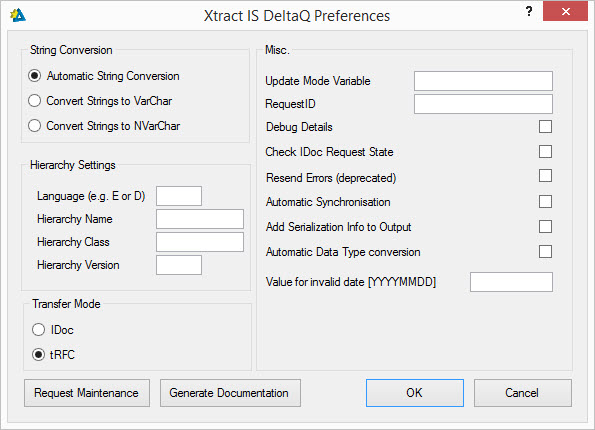
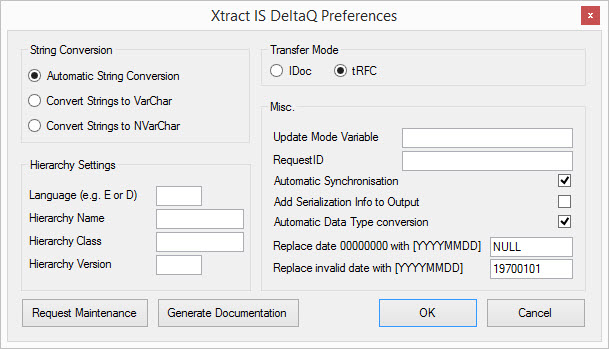
XIS:EN:DeltaQ settings - Changes + settings image

diff --git a/content/_en/xtract-is/deltaq/settings.md b/content/_en/xtract-is/deltaq/settings.md
@@ -46,39 +46,26 @@ Set the value of the **Update Mode** to **V - SSIS Variable** and define the SSI
 This field is optional. 
 If a value (e.g. XtractDatasource) is set, it will be used as suffix in the SAP job name (e.g. BIXtractDatasource), otherwise a combination of process ID and timestamp will be used (e.g. REQU_pppppppp_yyyyMMddHHmmss), with process ID being the ID of the Windows process, the XtractDeltaQServerPool.exe is running under.
 
-**Debug Details**<br>
-Defines that the debug details will be logged.
-
-**Check IDoc Request State**<br>
-Defines that the request state of the sended IDocs will be validated.
-Defines that the request state of the sent IDocs will be validated before the process continues. The IDoc number will be logged and the IDoc’s state is checked to be successful. 
-This behavior might be helpful to detect errors. It’s a good idea to activate this option for debugging purpose. Especially when extractions fail constantly or don’t generate any jobs in SM37 without additional messages.
-In the default state (no check), these checks are omitted which in general increases performance.
-
-**Resend errors (deprecated)**<br>
-in earlier versions of Xtract IS this setting was named *Don't resend tRFC errors automatically* and was activated by default. In the current version of Xtract IS this setting is deactivated by default as it shouldn't be required anymore.
-This setting is used if the DeltaQ component should trigger a resend of stuck tRFC calls. This can happen, when the RFC server destination (e.g. XTRACT01) is not reachable or busy and can therefore not accept any tRFC calls. In this case, these calls are queued up in SAP transaction SM58, waiting to be resent.
-This setting triggers a resend of those stuck tRFC data packages. 
-However, instead of using this setting, we recommend having the SAP system trigger this resend. 
-
-1. Go to transaction SM59 -> Edit -> tRFC Options and set number of connection attempts to 30 and the time span between 2 tries to 2 minutes. 
-2. Go to DeltaQ settings and check the setting "Don't resend tRFC error automatically".
 
 **Automatic Synchronisation**<br>
 Depending on the system landscape it could happen that developments only be performed in a test system. If SSIS packages should be used later in the productive environment, the data source has to be enabled there. To avoid manual changes in the transactional system you can activate this option. In this case the activation will be automatically done and the timestamp of the data source will be changed that it will be consistent to the SAP system setting. 
 If the DataSource was modified in the SAP system, e.g. a field’s name, data type or length was changed or a field was excluded from data transfer, you will still have to manually activate the DataSource in the DeltaQ component, even if Automatic Synchronisation is switched on. Otherwise data load will fail. This behaviour is by SAP design and is described in [SAP help](https://help.sap.com/viewer/ccc9cdbdc6cd4eceaf1e5485b1bf8f4b/7.4.19/en-US/4a12eaff76df1b42e10000000a42189c.html).
 
 **Add Serialization Info to Output**<br>
-Adds the two columns *DataPackageID* and *RowCounter* to the output.
-In this Case the following 3 columns will be available in the output:
-*RequestID*, *DataPackageID* and *RowCounter*, which are a composite key of the records delivered by SAP.  
-Newer data have a higher PackageID. In the same package newer data have a higher RowCounter. 
+Adds the two columns *DataPackageID* and *RowCounter* to the output. In this Case the following 3 columns will be available in the output: *RequestID*, *DataPackageID* and *RowCounter*, which are a composite key of the records delivered by SAP.  
+Newer data has a higher PackageID. In the same package newer data has a higher RowCounter. 
 
 **Automatic Data Type conversion**<br>
 SAP data types (like Date) will be converted to an appropriate SQL data type. 
 
 **Value for invalid date [YYYYMMDD]**<br>
 In case of no convertable date values you have to enter a default date value into the textbox. Every invalid value will be converted into this value. SAP date '00000000' will be converted to NULL, irrespective of the entered date.
+
+**Replace date 00000000 with [YYYYMMDD]<br>
+SAP date '00000000' will be converted to NULL or the entered date [YYYYMMDD]. 
+
+**Replace invalid date  with[YYYYMMDD]**<br>
+In case of no convertable date values you have to enter a default date value into the textbox. Every invalid value will be converted into this value.<br>
 
 **Request Maintenance**<br>
 Shows the content of SAP table ROOSPRMSC.
